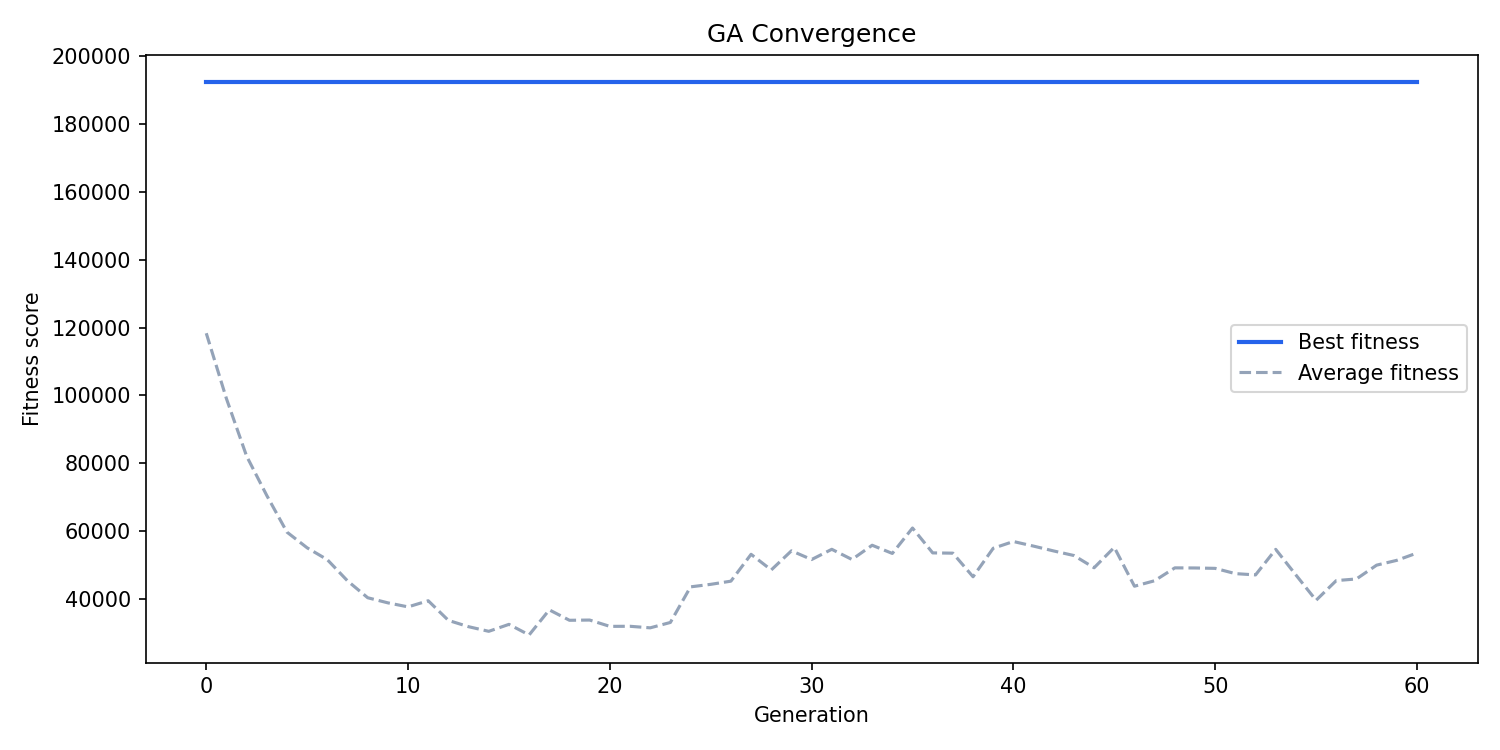
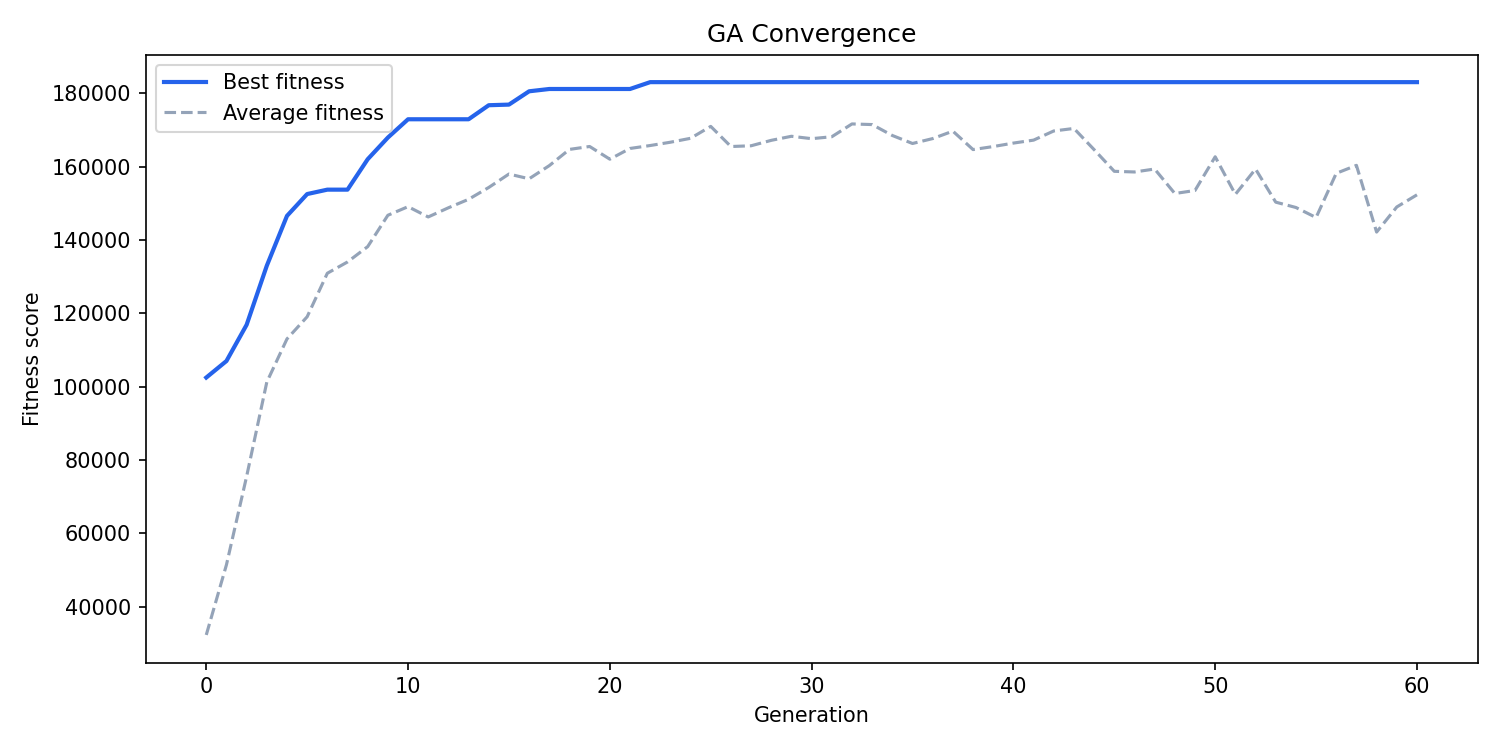
excluded airport

diff --git a/state_space_representation.py b/state_space_representation.py
@@ -4,10 +4,13 @@ import matplotlib.pyplot as plt
 from matplotlib.patches import Patch
 from shapely.geometry import box
 import pandas as pd
+from shapely.geometry import Polygon
 import warnings
+import warnings
+warnings.filterwarnings("ignore", category=RuntimeWarning)
 
-N_STORES       = 10
-CELLSIZE = 5000
+N_STORES = 10
+CELLSIZE = 2640
 MUTATION_RATE  = 0.7
 MULTISWAP_PROB = 0.15
 
@@ -79,10 +82,65 @@ for x in cols:
         grid_cells.append(cell)
 
 grid = gpd.GeoDataFrame(geometry=grid_cells, crs=neighborhoods.crs)
+print("units=", neighborhoods.crs)
 
-# cells should only overlap Boston
+# Define Logan exclusion zone (in EPSG:4326, then convert to match neighborhoods CRS)
+logan = Polygon([
+    (-71.0305, 42.3708),
+    (-71.0240, 42.3755),
+    (-71.0100, 42.3785),
+    (-70.9950, 42.3740),
+    (-70.9875, 42.3655),
+    (-70.9855, 42.3550),
+    (-70.9920, 42.3465),
+    (-71.0050, 42.3435),
+    (-71.0180, 42.3455),
+    (-71.0265, 42.3525),
+    (-71.0310, 42.3605),
+    (-71.0305, 42.3708) 
+])
+
+logan_wgs84 = Polygon([
+    [
+        -71.0312994,
+        42.3543855
+      ],
+      [
+        -70.9962613,
+        42.3389072
+      ],
+      [
+        -70.971185,
+        42.3630112
+      ],
+      [
+        -70.9990094,
+        42.3850773
+      ],
+      [
+        -71.0127498,
+        42.3873595
+      ],
+      [
+        -71.0292383,
+        42.3756938
+      ],
+      [
+        -71.0323299,
+        42.3554004
+      ]
+])
+
+logan_gdf = gpd.GeoDataFrame(geometry=[logan_wgs84], crs="EPSG:4326")
+logan_gdf = logan_gdf.to_crs(neighborhoods.crs)  # converts to ftUS, will line up correctly
+logan_polygon = logan_gdf.geometry.iloc[0]
+logan_polygon = logan_polygon.buffer(0)
+print("units=", neighborhoods.crs.axis_info)       # confirms units
+print("bounds=", neighborhoods.total_bounds) 
+# cells should only overlap Boston but exclude airport
 boston_boundary = neighborhoods.union_all()
-grid["in_boston"] = grid.geometry.intersects(boston_boundary)
+valid_area = boston_boundary.difference(logan_polygon)
+grid["in_boston"] = grid.geometry.intersects(valid_area)
 candidates = grid[grid["in_boston"]].copy().reset_index(drop=True)
 
 # Give each cell its own index
@@ -150,7 +208,7 @@ def income_fitness_func(candidate):
 
     overlap["weight"] = overlap["overlap_area"] / overlap["orig_area"]
     
-    income = (overlap["Total Population"] * overlap["weight"]).sum()
+    income = (overlap["Median Household Income"] * overlap["weight"]).sum()
         
     if income == 0:
         return -1000
@@ -214,7 +272,7 @@ def selection(pop, fitness, k):
     competitors = np.random.choice(len(pop), size=k, replace=False) #select k random chromosomes to comapare
     winner = competitors[0]
     for i in competitors:
-        if fitness[i] < fitness[winner]:
+        if fitness[i] > fitness[winner]:
             winner = i
     return pop[winner]
 
@@ -309,12 +367,3 @@ plt.tight_layout()
 plt.show()
 
 
-
-
-with warnings.catch_warnings():
-    warnings.filterwarnings("ignore", message="invalid value encountered in intersection")
-    candidate_cells["reachable_area"] = (
-        candidate_cells.geometry
-        .buffer(CELLSIZE)
-        .intersection(boston_boundary)
-    )
